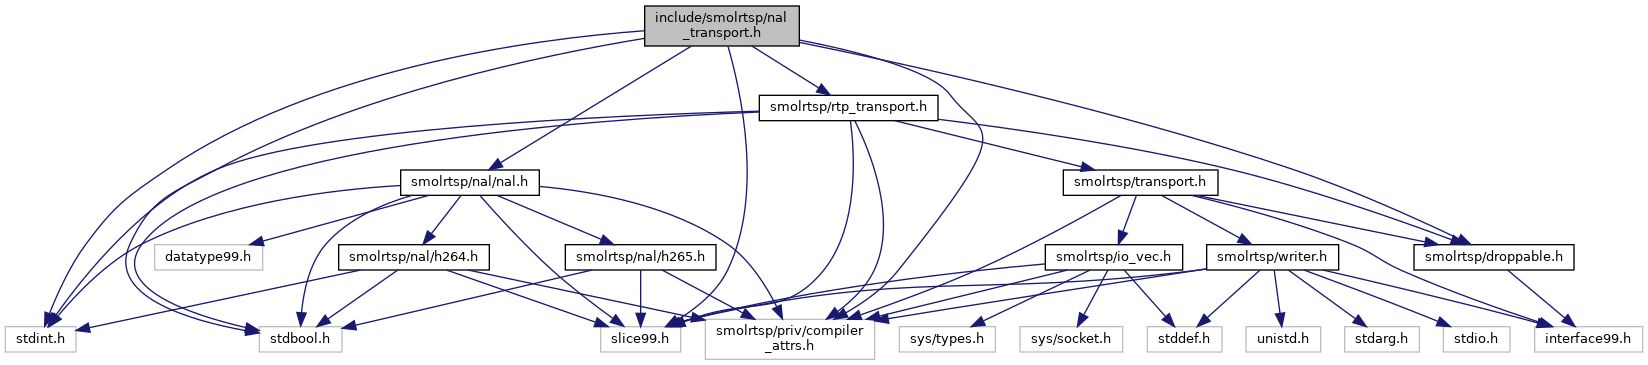
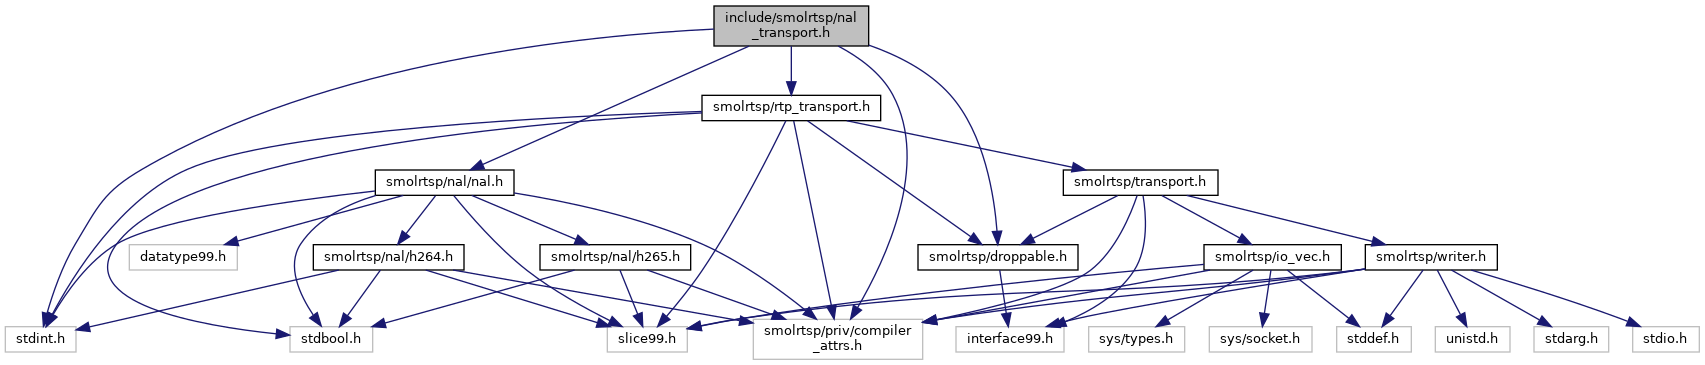
deploy: d9a0b0eb6064a3baa35a38e64154477e387649f8

diff --git a/nal__transport_8h_source.html b/nal__transport_8h_source.html
@@ -94,23 +94,20 @@ $(document).ready(function(){initNavTree('nal__transport_8h_source.html',''); in
 <div class="line"><a name="l00011"></a><span class="lineno">   11</span>&#160;<span class="preprocessor">#include &lt;<a class="code" href="nal_8h.html">smolrtsp/nal/nal.h</a>&gt;</span></div>
 <div class="line"><a name="l00012"></a><span class="lineno">   12</span>&#160;<span class="preprocessor">#include &lt;<a class="code" href="rtp__transport_8h.html">smolrtsp/rtp_transport.h</a>&gt;</span></div>
 <div class="line"><a name="l00013"></a><span class="lineno">   13</span>&#160; </div>
-<div class="line"><a name="l00014"></a><span class="lineno">   14</span>&#160;<span class="preprocessor">#include &lt;stdbool.h&gt;</span></div>
-<div class="line"><a name="l00015"></a><span class="lineno">   15</span>&#160;<span class="preprocessor">#include &lt;stdint.h&gt;</span></div>
-<div class="line"><a name="l00016"></a><span class="lineno">   16</span>&#160; </div>
-<div class="line"><a name="l00017"></a><span class="lineno">   17</span>&#160;<span class="preprocessor">#include &lt;slice99.h&gt;</span></div>
-<div class="line"><a name="l00018"></a><span class="lineno">   18</span>&#160; </div>
-<div class="line"><a name="l00019"></a><span class="lineno">   19</span>&#160;<span class="preprocessor">#include &lt;smolrtsp/priv/compiler_attrs.h&gt;</span></div>
-<div class="line"><a name="l00020"></a><span class="lineno">   20</span>&#160; </div>
-<div class="line"><a name="l00024"></a><span class="lineno"><a class="line" href="nal__transport_8h.html#afec555143193b4746bcddf7614953b65">   24</a></span>&#160;<span class="keyword">typedef</span> <span class="keyword">struct </span><a class="code" href="nal__transport_8h.html#afec555143193b4746bcddf7614953b65">SmolRTSP_NalTransport</a> <a class="code" href="nal__transport_8h.html#afec555143193b4746bcddf7614953b65">SmolRTSP_NalTransport</a>;</div>
-<div class="line"><a name="l00025"></a><span class="lineno">   25</span>&#160; </div>
-<div class="line"><a name="l00031"></a><span class="lineno">   31</span>&#160;<a class="code" href="nal__transport_8h.html#afec555143193b4746bcddf7614953b65">SmolRTSP_NalTransport</a> *</div>
-<div class="line"><a name="l00032"></a><span class="lineno">   32</span>&#160;<a class="code" href="nal__transport_8h.html#a01f39d32a9cc22acbb1d5404c939b39d">SmolRTSP_NalTransport_new</a>(<a class="code" href="rtp__transport_8h.html#a8c72a0e77af47185c469b8ddeec20f3d">SmolRTSP_RtpTransport</a> *t) SMOLRTSP_PRIV_MUST_USE;</div>
-<div class="line"><a name="l00033"></a><span class="lineno">   33</span>&#160; </div>
-<div class="line"><a name="l00041"></a><span class="lineno">   41</span>&#160;<span class="keywordtype">int</span> <a class="code" href="nal__transport_8h.html#ab10be35a29611146f431269988bce90f">SmolRTSP_NalTransport_send_packet</a>(</div>
-<div class="line"><a name="l00042"></a><span class="lineno">   42</span>&#160;    <a class="code" href="nal__transport_8h.html#afec555143193b4746bcddf7614953b65">SmolRTSP_NalTransport</a> *<span class="keyword">self</span>, uint64_t timestamp_us, uint8_t payload_type,</div>
-<div class="line"><a name="l00043"></a><span class="lineno">   43</span>&#160;    SmolRTSP_NalUnit nal_unit) SMOLRTSP_PRIV_MUST_USE;</div>
-<div class="line"><a name="l00044"></a><span class="lineno">   44</span>&#160; </div>
-<div class="line"><a name="l00050"></a><span class="lineno">   50</span>&#160;<a class="code" href="nal__transport_8h.html#a69333ef1ac705df4786f4cbfd0b58c54">declImplExtern99</a>(SmolRTSP_Droppable, <a class="code" href="nal__transport_8h.html#afec555143193b4746bcddf7614953b65">SmolRTSP_NalTransport</a>);</div>
+<div class="line"><a name="l00014"></a><span class="lineno">   14</span>&#160;<span class="preprocessor">#include &lt;stdint.h&gt;</span></div>
+<div class="line"><a name="l00015"></a><span class="lineno">   15</span>&#160; </div>
+<div class="line"><a name="l00016"></a><span class="lineno">   16</span>&#160;<span class="preprocessor">#include &lt;smolrtsp/priv/compiler_attrs.h&gt;</span></div>
+<div class="line"><a name="l00017"></a><span class="lineno">   17</span>&#160; </div>
+<div class="line"><a name="l00021"></a><span class="lineno"><a class="line" href="nal__transport_8h.html#afec555143193b4746bcddf7614953b65">   21</a></span>&#160;<span class="keyword">typedef</span> <span class="keyword">struct </span><a class="code" href="nal__transport_8h.html#afec555143193b4746bcddf7614953b65">SmolRTSP_NalTransport</a> <a class="code" href="nal__transport_8h.html#afec555143193b4746bcddf7614953b65">SmolRTSP_NalTransport</a>;</div>
+<div class="line"><a name="l00022"></a><span class="lineno">   22</span>&#160; </div>
+<div class="line"><a name="l00028"></a><span class="lineno">   28</span>&#160;<a class="code" href="nal__transport_8h.html#afec555143193b4746bcddf7614953b65">SmolRTSP_NalTransport</a> *</div>
+<div class="line"><a name="l00029"></a><span class="lineno">   29</span>&#160;<a class="code" href="nal__transport_8h.html#a01f39d32a9cc22acbb1d5404c939b39d">SmolRTSP_NalTransport_new</a>(<a class="code" href="rtp__transport_8h.html#a8c72a0e77af47185c469b8ddeec20f3d">SmolRTSP_RtpTransport</a> *t) SMOLRTSP_PRIV_MUST_USE;</div>
+<div class="line"><a name="l00030"></a><span class="lineno">   30</span>&#160; </div>
+<div class="line"><a name="l00038"></a><span class="lineno">   38</span>&#160;<span class="keywordtype">int</span> <a class="code" href="nal__transport_8h.html#ab10be35a29611146f431269988bce90f">SmolRTSP_NalTransport_send_packet</a>(</div>
+<div class="line"><a name="l00039"></a><span class="lineno">   39</span>&#160;    <a class="code" href="nal__transport_8h.html#afec555143193b4746bcddf7614953b65">SmolRTSP_NalTransport</a> *<span class="keyword">self</span>, uint64_t timestamp_us, uint8_t payload_type,</div>
+<div class="line"><a name="l00040"></a><span class="lineno">   40</span>&#160;    SmolRTSP_NalUnit nal_unit) SMOLRTSP_PRIV_MUST_USE;</div>
+<div class="line"><a name="l00041"></a><span class="lineno">   41</span>&#160; </div>
+<div class="line"><a name="l00047"></a><span class="lineno">   47</span>&#160;<a class="code" href="nal__transport_8h.html#a69333ef1ac705df4786f4cbfd0b58c54">declImplExtern99</a>(SmolRTSP_Droppable, <a class="code" href="nal__transport_8h.html#afec555143193b4746bcddf7614953b65">SmolRTSP_NalTransport</a>);</div>
 </div><!-- fragment --></div><!-- contents -->
 </div><!-- doc-content -->
 <div class="ttc" id="anal__transport_8h_html_ab10be35a29611146f431269988bce90f"><div class="ttname"><a href="nal__transport_8h.html#ab10be35a29611146f431269988bce90f">SmolRTSP_NalTransport_send_packet</a></div><div class="ttdeci">int SmolRTSP_NalTransport_send_packet(SmolRTSP_NalTransport *self, uint64_t timestamp_us, uint8_t payload_type, SmolRTSP_NalUnit nal_unit) SMOLRTSP_PRIV_MUST_USE</div><div class="ttdoc">Sends an RTP/NAL packet.</div></div>
@@ -118,7 +115,7 @@ $(document).ready(function(){initNavTree('nal__transport_8h_source.html',''); in
 <div class="ttc" id="anal__transport_8h_html_a01f39d32a9cc22acbb1d5404c939b39d"><div class="ttname"><a href="nal__transport_8h.html#a01f39d32a9cc22acbb1d5404c939b39d">SmolRTSP_NalTransport_new</a></div><div class="ttdeci">SmolRTSP_NalTransport * SmolRTSP_NalTransport_new(SmolRTSP_RtpTransport *t) SMOLRTSP_PRIV_MUST_USE</div><div class="ttdoc">Creates a new RTP/NAL transport.</div></div>
 <div class="ttc" id="artp__transport_8h_html_a8c72a0e77af47185c469b8ddeec20f3d"><div class="ttname"><a href="rtp__transport_8h.html#a8c72a0e77af47185c469b8ddeec20f3d">SmolRTSP_RtpTransport</a></div><div class="ttdeci">struct SmolRTSP_RtpTransport SmolRTSP_RtpTransport</div><div class="ttdoc">An RTP data transport.</div><div class="ttdef"><b>Definition:</b> rtp_transport.h:23</div></div>
 <div class="ttc" id="artp__transport_8h_html"><div class="ttname"><a href="rtp__transport_8h.html">rtp_transport.h</a></div><div class="ttdoc">An RTP data transport.</div></div>
-<div class="ttc" id="anal__transport_8h_html_afec555143193b4746bcddf7614953b65"><div class="ttname"><a href="nal__transport_8h.html#afec555143193b4746bcddf7614953b65">SmolRTSP_NalTransport</a></div><div class="ttdeci">struct SmolRTSP_NalTransport SmolRTSP_NalTransport</div><div class="ttdoc">An RTP/NAL data transport.</div><div class="ttdef"><b>Definition:</b> nal_transport.h:24</div></div>
+<div class="ttc" id="anal__transport_8h_html_afec555143193b4746bcddf7614953b65"><div class="ttname"><a href="nal__transport_8h.html#afec555143193b4746bcddf7614953b65">SmolRTSP_NalTransport</a></div><div class="ttdeci">struct SmolRTSP_NalTransport SmolRTSP_NalTransport</div><div class="ttdoc">An RTP/NAL data transport.</div><div class="ttdef"><b>Definition:</b> nal_transport.h:21</div></div>
 <div class="ttc" id="anal_8h_html"><div class="ttname"><a href="nal_8h.html">nal.h</a></div><div class="ttdoc">A generic NAL (Network Abstraction Layer) representation.</div></div>
 <div class="ttc" id="anal__transport_8h_html_a69333ef1ac705df4786f4cbfd0b58c54"><div class="ttname"><a href="nal__transport_8h.html#a69333ef1ac705df4786f4cbfd0b58c54">declImplExtern99</a></div><div class="ttdeci">declImplExtern99(SmolRTSP_Droppable, SmolRTSP_NalTransport)</div><div class="ttdoc">Implements SmolRTSP_Droppable_IFACE for SmolRTSP_NalTransport.</div></div>
 <!-- start footer part -->

diff --git a/smolrtsp_8h.html b/smolrtsp_8h.html
@@ -118,44 +118,44 @@ Include dependency graph for smolrtsp.h:</div>
 <div class="dyncontent">
 <div class="center"><img src="smolrtsp_8h__incl.png" border="0" usemap="#include_2smolrtsp_8h" alt=""/></div>
 <map name="include_2smolrtsp_8h" id="include_2smolrtsp_8h">
-<area shape="rect" title="Re&#45;exports all the functionality." alt="" coords="1970,5,2113,32"/>
-<area shape="rect" href="error_8h.html" title="Possible parsing errors." alt="" coords="1401,333,1567,360"/>
-<area shape="rect" href="writer_8h.html" title="The writer interface." alt="" coords="687,408,819,435"/>
-<area shape="rect" href="header_8h.html" title="An RTSP header." alt="" coords="535,251,713,278"/>
-<area shape="rect" href="header__map_8h.html" title="An RTSP header map." alt="" coords="759,155,927,196"/>
-<area shape="rect" href="message__body_8h.html" title="An RTSP message body." alt="" coords="1042,244,1225,285"/>
-<area shape="rect" href="method_8h.html" title="An RTSP method." alt="" coords="1949,251,2134,278"/>
-<area shape="rect" href="reason__phrase_8h.html" title="An RTSP reason phrase." alt="" coords="1655,244,1822,285"/>
-<area shape="rect" href="request_8h.html" title="An RTSP request." alt="" coords="1295,80,1479,107"/>
-<area shape="rect" href="request__line_8h.html" title="An RTSP request line." alt="" coords="2179,155,2351,196"/>
-<area shape="rect" href="request__uri_8h.html" title="An RTSP request URI." alt="" coords="2621,244,2793,285"/>
-<area shape="rect" href="rtsp__version_8h.html" title="An RTSP version." alt="" coords="2346,244,2494,285"/>
-<area shape="rect" href="response_8h.html" title="An RTSP response." alt="" coords="1025,80,1220,107"/>
-<area shape="rect" href="response__line_8h.html" title="An RTSP response line." alt="" coords="1669,155,1851,196"/>
-<area shape="rect" href="status__code_8h.html" title="An RTSP status code." alt="" coords="2159,244,2321,285"/>
-<area shape="rect" href="rtp_8h.html" title="RFC 3550&#45;compliant RTP implementation." alt="" coords="717,333,870,360"/>
-<area shape="rect" href="sdp_8h.html" title="RFC 4566&#45;compliant SDP implementation." alt="" coords="330,333,489,360"/>
-<area shape="rect" href="nal_8h.html" title="A generic NAL (Network Abstraction Layer) representation." alt="" coords="2868,251,3007,278"/>
-<area shape="rect" href="droppable_8h.html" title="Droppable types support." alt="" coords="4005,408,4165,435"/>
-<area shape="rect" href="io__vec_8h.html" title="Vectored I/O support." alt="" coords="3793,408,3930,435"/>
-<area shape="rect" href="nal__transport_8h.html" title="An RTP/NAL data transport." alt="" coords="3461,162,3643,189"/>
-<area shape="rect" href="rtp__transport_8h.html" title="An RTP data transport." alt="" coords="3679,251,3857,278"/>
-<area shape="rect" href="transport_8h.html" title="RTSP data transport (level 4) implementations." alt="" coords="3817,333,3972,360"/>
-<area shape="rect" href="util_8h.html" title="Utilitary stuff." alt="" coords="3127,251,3243,278"/>
-<area shape="rect" title=" " alt="" coords="587,490,661,517"/>
-<area shape="rect" title=" " alt="" coords="2691,490,2771,517"/>
-<area shape="rect" title=" " alt="" coords="1621,483,1790,524"/>
-<area shape="rect" title=" " alt="" coords="1968,408,2051,435"/>
-<area shape="rect" title=" " alt="" coords="2319,408,2427,435"/>
-<area shape="rect" title=" " alt="" coords="716,490,791,517"/>
-<area shape="rect" title=" " alt="" coords="5,490,72,517"/>
-<area shape="rect" title=" " alt="" coords="103,490,177,517"/>
-<area shape="rect" title=" " alt="" coords="3934,490,4042,517"/>
-<area shape="rect" title=" " alt="" coords="3215,408,3286,435"/>
-<area shape="rect" href="h264_8h.html" title="H.264 NAL representation." alt="" coords="3034,333,3185,360"/>
-<area shape="rect" href="h265_8h.html" title="H.265 NAL representation." alt="" coords="2655,333,2806,360"/>
-<area shape="rect" title=" " alt="" coords="3686,490,3789,517"/>
-<area shape="rect" title=" " alt="" coords="3813,490,3909,517"/>
+<area shape="rect" title="Re&#45;exports all the functionality." alt="" coords="1891,5,2034,32"/>
+<area shape="rect" href="error_8h.html" title="Possible parsing errors." alt="" coords="1249,333,1415,360"/>
+<area shape="rect" href="writer_8h.html" title="The writer interface." alt="" coords="637,408,769,435"/>
+<area shape="rect" href="header_8h.html" title="An RTSP header." alt="" coords="399,251,577,278"/>
+<area shape="rect" href="header__map_8h.html" title="An RTSP header map." alt="" coords="531,155,699,196"/>
+<area shape="rect" href="message__body_8h.html" title="An RTSP message body." alt="" coords="703,244,886,285"/>
+<area shape="rect" href="method_8h.html" title="An RTSP method." alt="" coords="1565,251,1750,278"/>
+<area shape="rect" href="reason__phrase_8h.html" title="An RTSP reason phrase." alt="" coords="2338,244,2505,285"/>
+<area shape="rect" href="request_8h.html" title="An RTSP request." alt="" coords="883,80,1067,107"/>
+<area shape="rect" href="request__line_8h.html" title="An RTSP request line." alt="" coords="1442,155,1614,196"/>
+<area shape="rect" href="request__uri_8h.html" title="An RTSP request URI." alt="" coords="1013,244,1185,285"/>
+<area shape="rect" href="rtsp__version_8h.html" title="An RTSP version." alt="" coords="2063,244,2211,285"/>
+<area shape="rect" href="response_8h.html" title="An RTSP response." alt="" coords="1731,80,1925,107"/>
+<area shape="rect" href="response__line_8h.html" title="An RTSP response line." alt="" coords="2175,155,2358,196"/>
+<area shape="rect" href="status__code_8h.html" title="An RTSP status code." alt="" coords="1775,244,1937,285"/>
+<area shape="rect" href="rtp_8h.html" title="RFC 3550&#45;compliant RTP implementation." alt="" coords="2655,333,2809,360"/>
+<area shape="rect" href="sdp_8h.html" title="RFC 4566&#45;compliant SDP implementation." alt="" coords="255,333,414,360"/>
+<area shape="rect" href="nal_8h.html" title="A generic NAL (Network Abstraction Layer) representation." alt="" coords="2891,251,3029,278"/>
+<area shape="rect" href="droppable_8h.html" title="Droppable types support." alt="" coords="3969,408,4129,435"/>
+<area shape="rect" href="io__vec_8h.html" title="Vectored I/O support." alt="" coords="3541,408,3678,435"/>
+<area shape="rect" href="nal__transport_8h.html" title="An RTP/NAL data transport." alt="" coords="3445,162,3627,189"/>
+<area shape="rect" href="rtp__transport_8h.html" title="An RTP data transport." alt="" coords="3459,251,3637,278"/>
+<area shape="rect" href="transport_8h.html" title="RTSP data transport (level 4) implementations." alt="" coords="3641,333,3796,360"/>
+<area shape="rect" href="util_8h.html" title="Utilitary stuff." alt="" coords="2529,251,2645,278"/>
+<area shape="rect" title=" " alt="" coords="564,490,639,517"/>
+<area shape="rect" title=" " alt="" coords="1513,490,1593,517"/>
+<area shape="rect" title=" " alt="" coords="1902,483,2071,524"/>
+<area shape="rect" title=" " alt="" coords="1867,408,1949,435"/>
+<area shape="rect" title=" " alt="" coords="2025,408,2133,435"/>
+<area shape="rect" title=" " alt="" coords="665,490,740,517"/>
+<area shape="rect" title=" " alt="" coords="104,490,171,517"/>
+<area shape="rect" title=" " alt="" coords="5,490,80,517"/>
+<area shape="rect" title=" " alt="" coords="3878,490,3986,517"/>
+<area shape="rect" title=" " alt="" coords="3094,408,3165,435"/>
+<area shape="rect" href="h264_8h.html" title="H.264 NAL representation." alt="" coords="3213,333,3363,360"/>
+<area shape="rect" href="h265_8h.html" title="H.265 NAL representation." alt="" coords="2885,333,3035,360"/>
+<area shape="rect" title=" " alt="" coords="3619,490,3722,517"/>
+<area shape="rect" title=" " alt="" coords="3499,490,3595,517"/>
 </map>
 </div>
 </div>

diff --git a/nal__transport_8h.html b/nal__transport_8h.html
@@ -96,36 +96,34 @@ $(document).ready(function(){initNavTree('nal__transport_8h.html',''); initResiz
 <div class="textblock"><code>#include &lt;<a class="el" href="droppable_8h_source.html">smolrtsp/droppable.h</a>&gt;</code><br />
 <code>#include &lt;<a class="el" href="nal_8h_source.html">smolrtsp/nal/nal.h</a>&gt;</code><br />
 <code>#include &lt;<a class="el" href="rtp__transport_8h_source.html">smolrtsp/rtp_transport.h</a>&gt;</code><br />
-<code>#include &lt;stdbool.h&gt;</code><br />
 <code>#include &lt;stdint.h&gt;</code><br />
-<code>#include &lt;slice99.h&gt;</code><br />
 <code>#include &lt;smolrtsp/priv/compiler_attrs.h&gt;</code><br />
 </div><div class="textblock"><div class="dynheader">
 Include dependency graph for nal_transport.h:</div>
 <div class="dyncontent">
 <div class="center"><img src="nal__transport_8h__incl.png" border="0" usemap="#include_2smolrtsp_2nal__transport_8h" alt=""/></div>
 <map name="include_2smolrtsp_2nal__transport_8h" id="include_2smolrtsp_2nal__transport_8h">
-<area shape="rect" title="An RTP/NAL data transport." alt="" coords="645,5,799,47"/>
-<area shape="rect" href="droppable_8h.html" title="Droppable types support." alt="" coords="1414,244,1574,271"/>
-<area shape="rect" href="nal_8h.html" title="A generic NAL (Network Abstraction Layer) representation." alt="" coords="401,169,539,196"/>
-<area shape="rect" title=" " alt="" coords="259,326,342,353"/>
+<area shape="rect" title="An RTP/NAL data transport." alt="" coords="714,5,869,47"/>
+<area shape="rect" href="droppable_8h.html" title="Droppable types support." alt="" coords="918,244,1078,271"/>
+<area shape="rect" href="nal_8h.html" title="A generic NAL (Network Abstraction Layer) representation." alt="" coords="375,169,514,196"/>
 <area shape="rect" title=" " alt="" coords="5,326,76,353"/>
-<area shape="rect" title=" " alt="" coords="601,326,681,353"/>
-<area shape="rect" title=" " alt="" coords="705,319,875,360"/>
-<area shape="rect" href="rtp__transport_8h.html" title="An RTP data transport." alt="" coords="759,95,938,121"/>
-<area shape="rect" title=" " alt="" coords="1535,326,1643,353"/>
-<area shape="rect" href="h264_8h.html" title="H.264 NAL representation." alt="" coords="339,244,489,271"/>
-<area shape="rect" href="h265_8h.html" title="H.265 NAL representation." alt="" coords="565,244,716,271"/>
-<area shape="rect" title=" " alt="" coords="155,244,263,271"/>
+<area shape="rect" title=" " alt="" coords="753,319,923,360"/>
+<area shape="rect" href="rtp__transport_8h.html" title="An RTP data transport." alt="" coords="702,95,881,121"/>
+<area shape="rect" title=" " alt="" coords="956,326,1064,353"/>
+<area shape="rect" href="h264_8h.html" title="H.264 NAL representation." alt="" coords="313,244,464,271"/>
+<area shape="rect" title=" " alt="" coords="290,326,373,353"/>
+<area shape="rect" title=" " alt="" coords="607,326,687,353"/>
+<area shape="rect" href="h265_8h.html" title="H.265 NAL representation." alt="" coords="540,244,691,271"/>
+<area shape="rect" title=" " alt="" coords="129,244,237,271"/>
 <area shape="rect" href="transport_8h.html" title="RTSP data transport (level 4) implementations." alt="" coords="1063,169,1218,196"/>
-<area shape="rect" href="io__vec_8h.html" title="Vectored I/O support." alt="" coords="1045,244,1183,271"/>
-<area shape="rect" href="writer_8h.html" title="The writer interface." alt="" coords="1207,244,1339,271"/>
-<area shape="rect" title=" " alt="" coords="1147,326,1222,353"/>
-<area shape="rect" title=" " alt="" coords="1020,326,1123,353"/>
-<area shape="rect" title=" " alt="" coords="899,326,995,353"/>
-<area shape="rect" title=" " alt="" coords="1345,326,1419,353"/>
-<area shape="rect" title=" " alt="" coords="1443,326,1510,353"/>
-<area shape="rect" title=" " alt="" coords="1246,326,1321,353"/>
+<area shape="rect" href="io__vec_8h.html" title="Vectored I/O support." alt="" coords="1204,244,1341,271"/>
+<area shape="rect" href="writer_8h.html" title="The writer interface." alt="" coords="1365,244,1497,271"/>
+<area shape="rect" title=" " alt="" coords="1337,326,1411,353"/>
+<area shape="rect" title=" " alt="" coords="1209,326,1312,353"/>
+<area shape="rect" title=" " alt="" coords="1089,326,1185,353"/>
+<area shape="rect" title=" " alt="" coords="1534,326,1609,353"/>
+<area shape="rect" title=" " alt="" coords="1633,326,1699,353"/>
+<area shape="rect" title=" " alt="" coords="1435,326,1510,353"/>
 </map>
 </div>
 </div><div class="textblock"><div class="dynheader">
